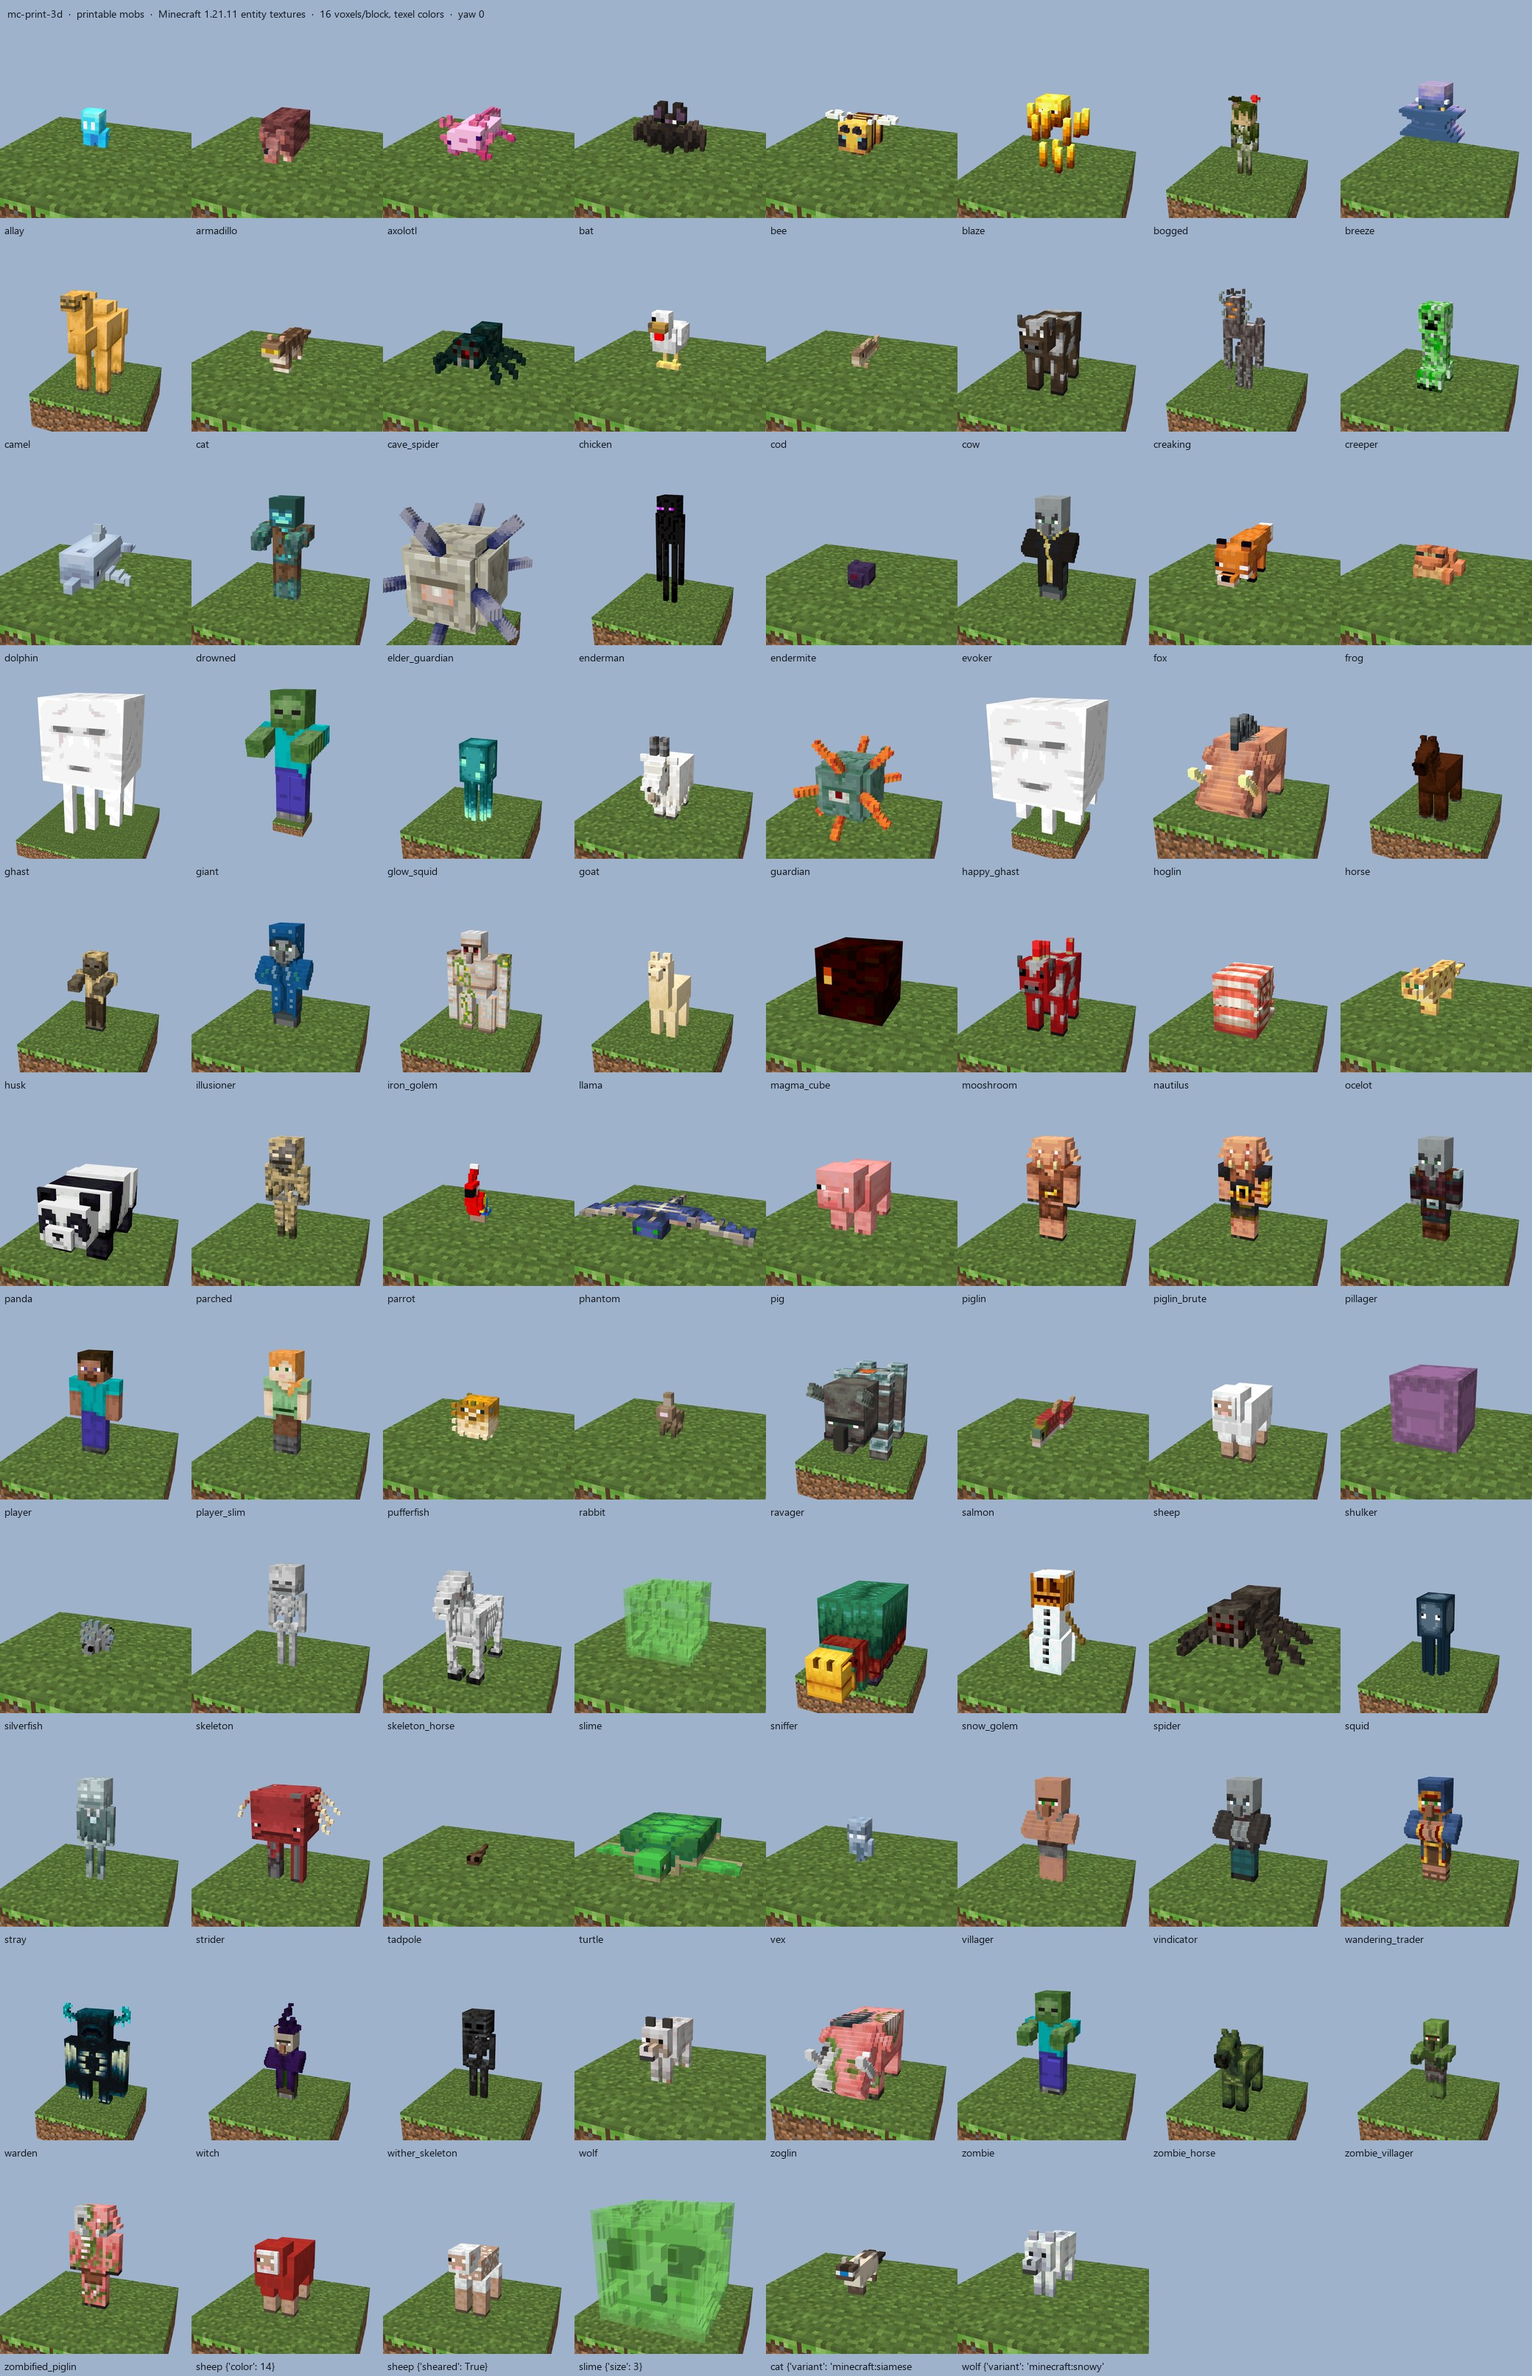
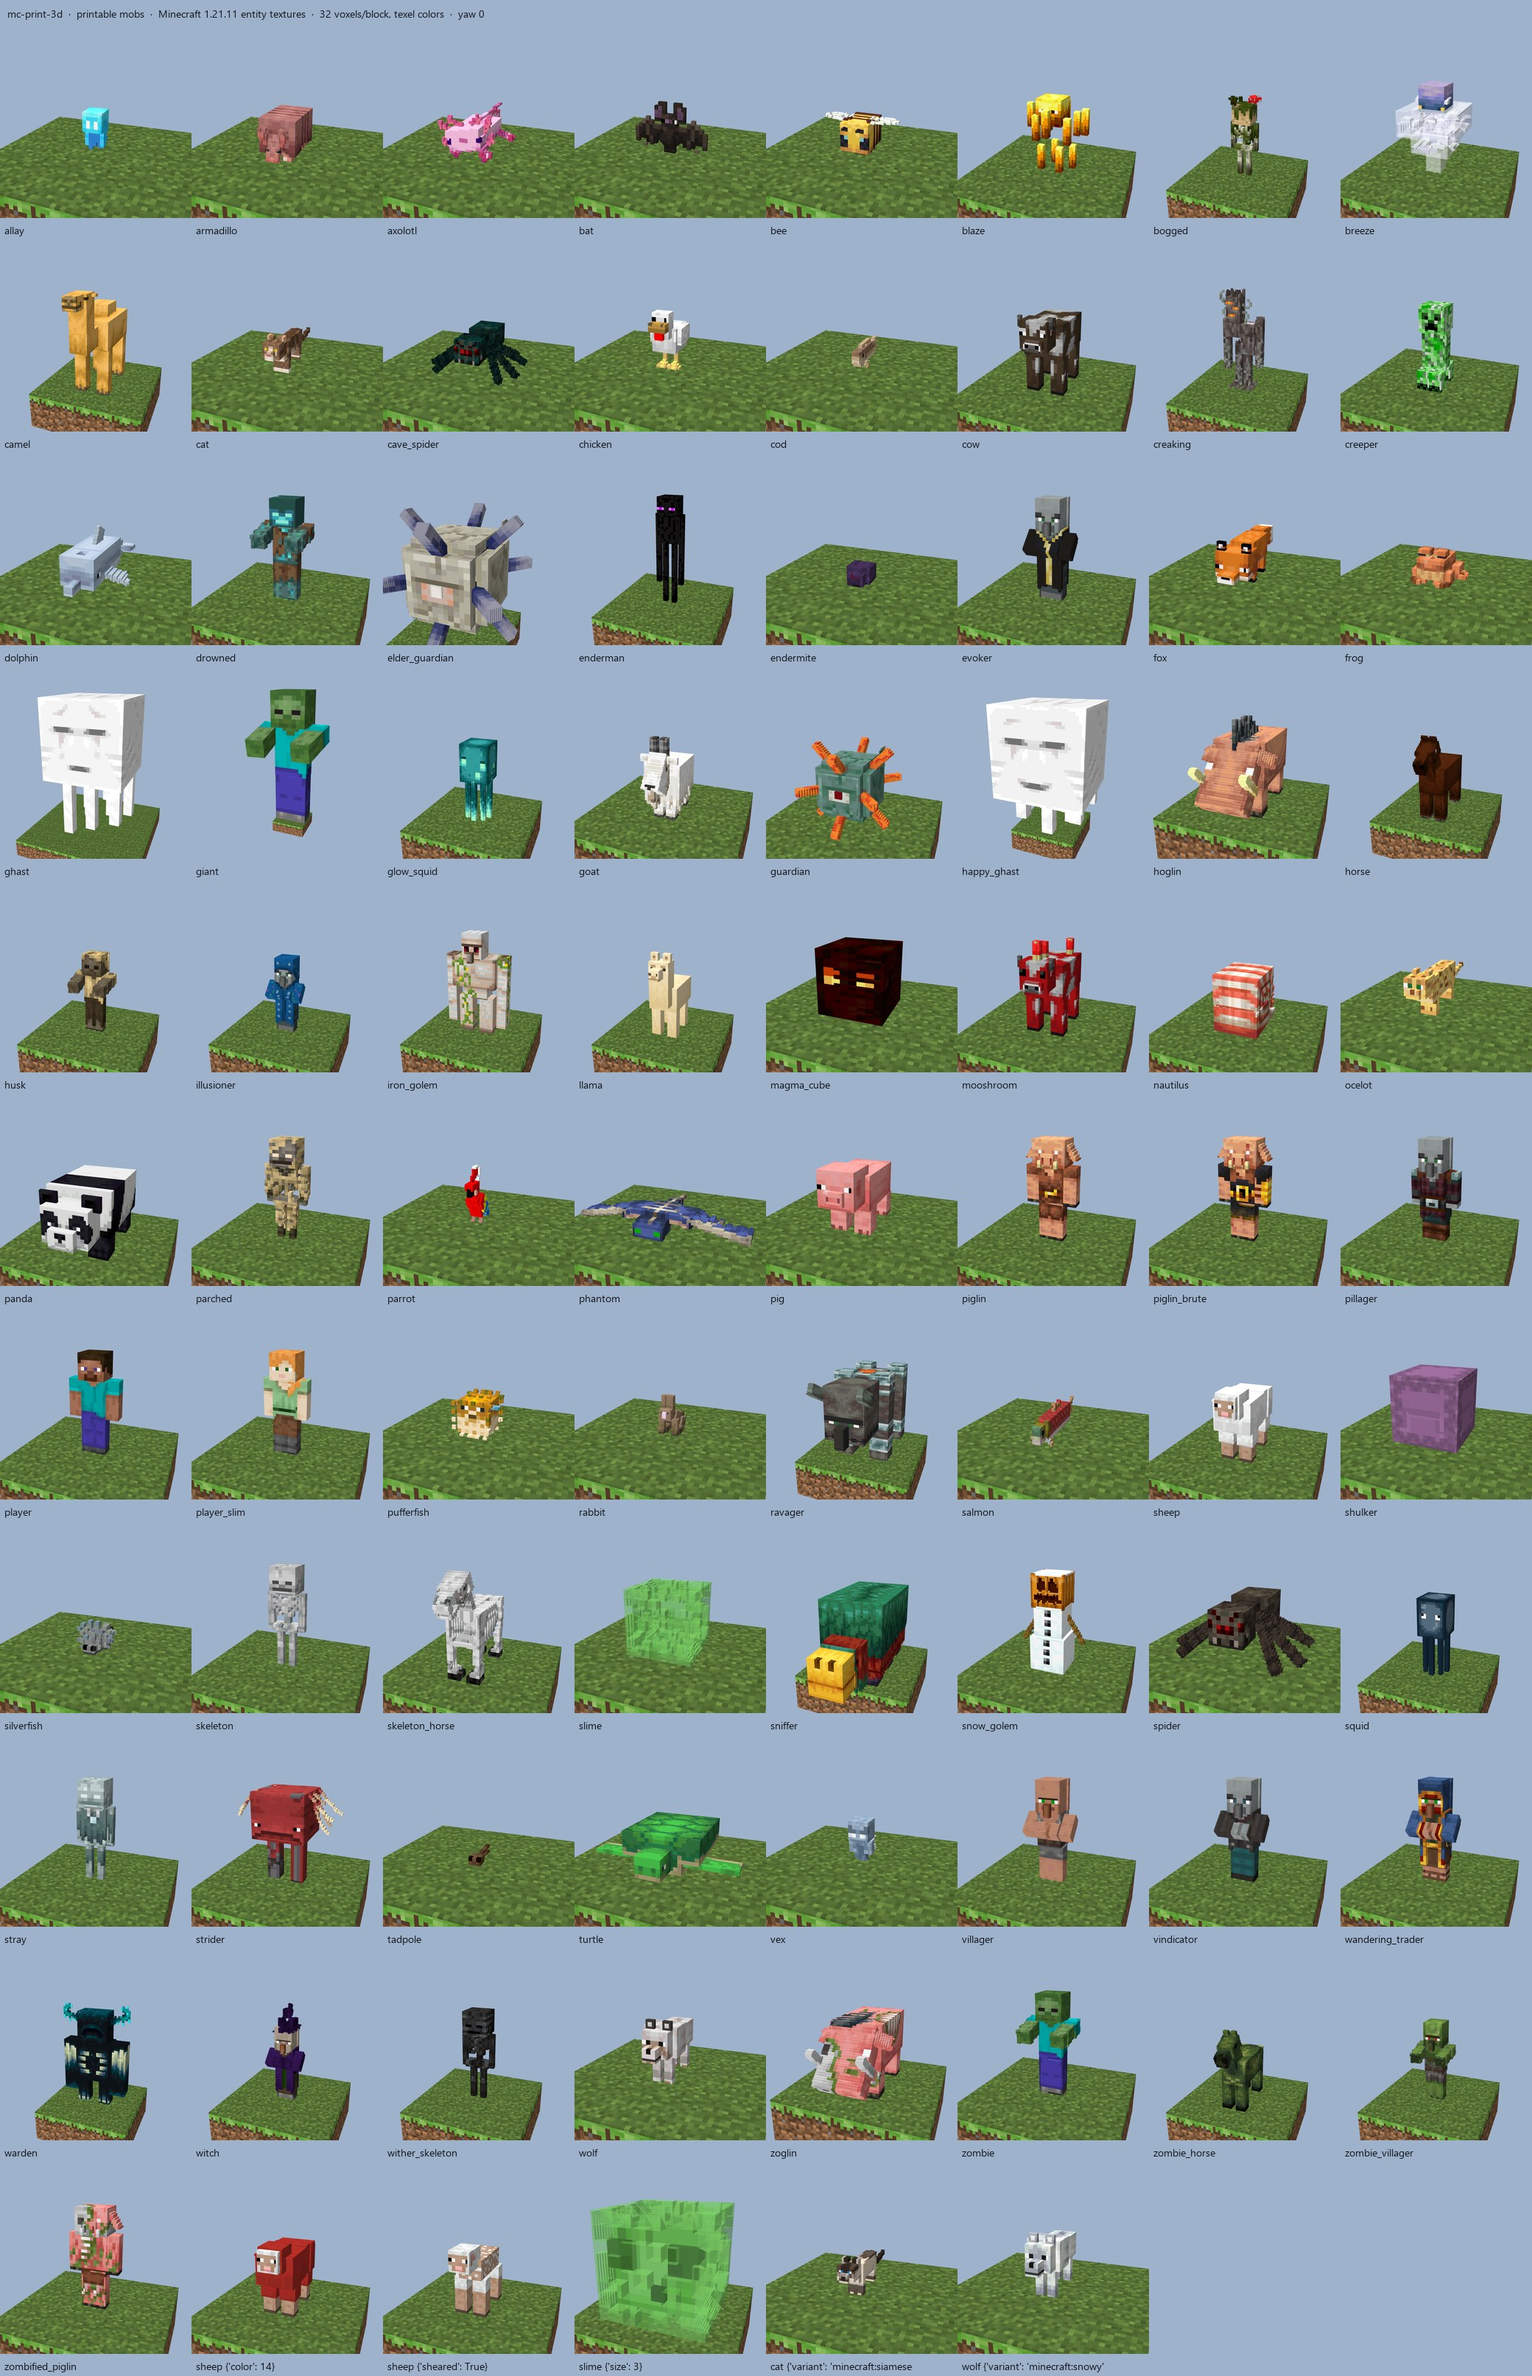
mobs: breeze wind funnel from its own layer, per-layer texture sizes, 32 voxels for figures; new hero image
- breeze: head and rods from breeze.png, the wind funnel from the breeze_wind layer printed solid in clear
  filament (its swirl texture is mostly transparent); extra layers carry their own texture size and hidden parts
- translucent boxes fill transparent texels with the nearest painted color (no holes in clear parts)
- `mcprint mob` uses up to 32 voxels per block by default: cats (0.8 scale) and rabbits (0.6) lose their
  ears and noses at 16; the README mob sheet is rendered at 32 now
- README hero: the cottage with its mobs, converted; relief wall stays below it

diff --git a/mcprint/mobs/models.py b/mcprint/mobs/models.py
@@ -57,6 +57,7 @@ class MobBox:
     overlay_uv: Optional[tuple[float, float]] = None   # second skin layer baked where opaque
     overlay_texture: Optional[str] = None       # e.g. enderman eyes
     face_textures: Optional[dict] = None        # face -> (block texture resource, pixel rect or None): pumpkin heads
+    tex_size: Optional[tuple[int, int]] = None  # texture size this box's layer was authored for (extra layers differ)
 
 
 @dataclass
@@ -152,11 +153,12 @@ def _layer_parts(layer: dict, *, prefix: str = "", texture: Optional[str] = None
         elif name in poses:
             rot = tuple(float(v) for v in poses[name])
         boxes = []
+        tsize = tuple(layer.get("texture_size", (64, 32)))
         for c in cubes:
             infl = c["inflate"]
             boxes.append(MobBox(tuple(c["origin"]), tuple(c["size"]), (c["uv"][0], c["uv"][1]), bool(c["mirror"]),
                                float(max(infl)) if max(infl) >= 0 else float(min(infl)), texture=texture, tint=tint,
-                               translucent=translucent))
+                               translucent=translucent, tex_size=tsize))
         for b in boxes:
             ov = overlays.get(path) or overlays.get(name)
             if ov:
@@ -177,7 +179,7 @@ class MobSpec:
     layer: str
     texture: str
     label: str = ""
-    extra_layers: tuple = ()      # (layer, texture, tint, translucent)
+    extra_layers: tuple = ()      # (layer, texture, tint, translucent[, hidden parts])
     hidden: tuple = ()            # part names / paths hidden in the default state
     poses: dict = field(default_factory=dict)      # part -> (rx, ry, rz) from setupAnim's rest state
     overlays: dict = field(default_factory=dict)   # part -> overlay texture baked on top
@@ -238,7 +240,9 @@ REGISTRY: dict[str, MobSpec] = {
     "endermite": MobSpec("endermite", E + "endermite", "endermite", width=0.4, height=0.3),
     "phantom": MobSpec("phantom", E + "phantom", "phantom", width=0.9, height=0.5),
     "warden": MobSpec("warden", E + "warden/warden", "warden", width=0.9, height=2.9),
-    "breeze": MobSpec("breeze", E + "breeze/breeze", "breeze", width=0.6, height=1.77),
+    # BreezeRenderer draws head + rods from breeze.png and the wind funnel from breeze_wind.png (a separate layer)
+    "breeze": MobSpec("breeze", E + "breeze/breeze", "breeze", hidden=("wind_body", "eyes"),
+                      extra_layers=(("breeze_wind", E + "breeze/breeze_wind", None, True, ("body",)),), width=0.6, height=1.77),   # funnel in clear filament
     "creaking": MobSpec("creaking", E + "creaking/creaking", "creaking", width=0.9, height=2.7),
     "strider": MobSpec("strider", E + "strider/strider", "strider", width=0.9, height=1.7),
     # ---- friendly ---------------------------------------------------------------------
@@ -400,7 +404,9 @@ def mob_model(mob_id: str, props: Optional[dict] = None) -> Optional[MobModel]:
         scale *= float(max(1, int(props.get("size", 1)) + 1))
     model = MobModel(mid, texture, parts, scale=scale, tex_size=tuple(layer["texture_size"]), label=spec.label or mid.replace("_", " "),
                      width=spec.width * scale, height=spec.height, layer=layer_name)
-    for extra_layer, extra_tex, tint, translucent in spec.extra_layers:
+    for extra in spec.extra_layers:
+        extra_layer, extra_tex, tint, translucent = extra[:4]
+        extra_hidden = tuple(extra[4]) if len(extra) > 4 else ()
         if mid == "sheep":
             color = props.get("color", "white")
             if props.get("sheared"):           # 1.21.5+: a thin colored undercoat stays on a sheared sheep
@@ -411,7 +417,7 @@ def mob_model(mob_id: str, props: Optional[dict] = None) -> Optional[MobModel]:
         lay = layers.get(extra_layer)
         if lay is None:
             continue
-        extra_parts = _layer_parts(lay, prefix=extra_layer + ":", texture=extra_tex, tint=tint, translucent=translucent)
+        extra_parts = _layer_parts(lay, prefix=extra_layer + ":", texture=extra_tex, tint=tint, translucent=translucent, hidden=extra_hidden)
         if translucent:
             model.parts[:0] = extra_parts        # stamped first so the opaque core and eyes stay visible inside the shell
         else:

diff --git a/mcprint/mobs/raster.py b/mcprint/mobs/raster.py
@@ -231,6 +231,11 @@ class MobVoxelizer:
             rgb = np.zeros((len(idx), 3), dtype=np.uint8)
             keep = np.ones(len(idx), dtype=bool)
             tex = self._texture(box.texture) if box.texture else tex_default
+            if box.translucent and tex is not None:
+                # printed solid in clear filament: transparent texels take the nearest painted color, never a hole
+                filled = self.textures.filled(box.texture or model.texture)
+                if filled is not None:
+                    tex = np.concatenate([filled, np.full(filled.shape[:2] + (1,), 255, dtype=np.uint8)], axis=2)
             rects = _face_rects(box, box.uv)
             orects = _face_rects(box, box.overlay_uv) if box.overlay_uv else None
             otex = self._texture(box.overlay_texture) if box.overlay_texture else tex
@@ -253,12 +258,13 @@ class MobVoxelizer:
                 if tex is None:
                     rgb[sel] = (150, 150, 150)
                     continue
-                px = _sample(tex, rects[face], fu, fv, tex.shape[1] / model.tex_size[0])
+                tsz = box.tex_size or model.tex_size
+                px = _sample(tex, rects[face], fu, fv, tex.shape[1] / tsz[0])
                 col = px[:, :3].astype(np.uint8)
                 # translucent parts (slime) are printed solid in clear filament: their soft alpha is not a cut-out
                 ok = px[:, 3] >= self.alpha if not box.translucent else np.ones(len(fu), dtype=bool)
                 if orects is not None and otex is not None:
-                    op = _sample(otex, orects[face], fu, fv, otex.shape[1] / model.tex_size[0])
+                    op = _sample(otex, orects[face], fu, fv, otex.shape[1] / tsz[0])
                     over = op[:, 3] >= self.alpha
                     col = np.where(over[:, None], op[:, :3], col).astype(np.uint8)
                     ok |= over

diff --git a/mcprint/cli.py b/mcprint/cli.py
@@ -240,6 +240,8 @@ def cmd_mob(a: argparse.Namespace) -> int:
         print(f"error: no printable model for {spec['id']!r} (see 'mcprint mobs')", file=sys.stderr)
         return 2
     s = _settings_from_args(a)
+    if not a.resolution:
+        s.resolution = int(max(16, min(32, round(s.block_mm / max(s.nozzle_mm * 1.2, 0.25)))))   # figures: up to 32 voxels per block
     s.include_mobs = True
     s.extra_mobs = []
     s.remove_islands = False

diff --git a/README.md b/README.md
@@ -9,6 +9,10 @@ Convert Minecraft schematics into multi-color, print-ready 3D models, using the 
 [![GUI: PySide6](https://img.shields.io/badge/GUI-PySide6-41CD52?logo=qt&logoColor=white)](https://doc.qt.io/qtforpython-6/)
 [![Formats](https://img.shields.io/badge/schematics-.schematic%20.schem%20.litematic%20.nbt%20.mcstructure%20.bp-blue)](#supported-input-formats)
 
+![A cottage with its mobs, converted for printing](docs/hero.png)
+
+*A 17 × 11 × 13 block cottage with the creatures saved in its schematic, converted at 10 mm per block: texture relief on the walls and roof, the mobs as figures, every color from the game's own textures.*
+
 ![Texture relief on a wall of blocks](docs/texture-relief.png)
 
 *Bricks, stone bricks, cobblestone, planks, stone, mud bricks, deepslate tiles, log, dirt, sandstone — converted at 16 voxels per block with 0.6 mm texture relief. Mortar lines, seams and bark ridges are real geometry; plain stone and dirt stay flat.*
@@ -122,7 +126,7 @@ python -m mcprint convert castle.litematic --style cubes           # plain cubes
 
 ![Printable mobs](docs/mobs.jpg)
 
-*All 78 printable mobs rasterized at 16 voxels per block from the 1.21.11 entity textures, plus a red sheep, a sheared sheep, a size-3 slime, a siamese cat and a snowy wolf. Hostile: blaze, bogged, breeze, cave spider, creaking, creeper, drowned, elder guardian, enderman, endermite, evoker, ghast, giant, guardian, hoglin, husk, illusioner, magma cube, parched, phantom, piglin, piglin brute, pillager, ravager, shulker, silverfish, skeleton, slime, spider, stray, strider, vex, vindicator, warden, witch, wither skeleton, zoglin, zombie, zombie villager, zombified piglin. Friendly: allay, armadillo, axolotl, bat, bee, camel, cat, chicken, cod, cow, dolphin, fox, frog, glow squid, goat, happy ghast, horse, iron golem, llama, mooshroom, nautilus, ocelot, panda, parrot, pig, players (Steve and Alex, or your own skin), pufferfish, rabbit, salmon, sheep, skeleton horse, sniffer, snow golem, squid, tadpole, turtle, villager, wandering trader, wolf, zombie horse.*
+*All 78 printable mobs rasterized at 32 voxels per block from the 1.21.11 entity textures, plus a red sheep, a sheared sheep, a size-3 slime, a siamese cat and a snowy wolf. Hostile: blaze, bogged, breeze, cave spider, creaking, creeper, drowned, elder guardian, enderman, endermite, evoker, ghast, giant, guardian, hoglin, husk, illusioner, magma cube, parched, phantom, piglin, piglin brute, pillager, ravager, shulker, silverfish, skeleton, slime, spider, stray, strider, vex, vindicator, warden, witch, wither skeleton, zoglin, zombie, zombie villager, zombified piglin. Friendly: allay, armadillo, axolotl, bat, bee, camel, cat, chicken, cod, cow, dolphin, fox, frog, glow squid, goat, happy ghast, horse, iron golem, llama, mooshroom, nautilus, ocelot, panda, parrot, pig, players (Steve and Alex, or your own skin), pufferfish, rabbit, salmon, sheep, skeleton horse, sniffer, snow golem, squid, tadpole, turtle, villager, wandering trader, wolf, zombie horse.*
 
 ![Cottage with mobs](docs/preview-mobs.png)
 
@@ -142,7 +146,7 @@ The geometry is not modelled by hand. Minecraft keeps its entity models in code 
 - **One mob, one file.** `mcprint mob creeper --block-mm 20` writes a creeper figure with its plate; `mcprint mob sheep:red --kit` a red sheep as a kit piece; `mcprint mob player --skin me.png --format stl` you.
 - **Kit mode.** A mob is one piece: all of its cells as a single body on a base tile with a socket under every ground cell (no studs on a head). Figures print in their dominant color; use the solid build for full-color mobs.
 - **Rotation.** Entity yaws are snapped to the nearest 90° by default so a figure's boxes align with the voxel grid; a mob turned 37° would print as stair-steps on every face. `--mob-free-yaw` (or the checkbox in the app) keeps the exact rotation.
-- **Detail.** Mobs share the block resolution (16 sub-voxels per block by default), so a 4-unit-wide arm is 4 voxels wide and tilted parts (villager arms, spider legs, wolf tail) come out stair-stepped like any diagonal in a voxel model. Set *resolution* to 32 in the Model tab or pass `--resolution 32` for finer figures at the cost of larger meshes.
+- **Detail.** `mcprint mob` uses up to 32 voxels per block, which small mobs need: a cat is drawn at 0.8 scale and a rabbit at 0.6, so their ears and noses are under a voxel wide at 16. In a schematic, mobs share the block resolution (16 sub-voxels per block by default), so a 4-unit-wide arm is 4 voxels wide and tilted parts (villager arms, spider legs, wolf tail) come out stair-stepped like any diagonal in a voxel model. Set *resolution* to 32 in the Model tab or pass `--resolution 32` for finer figures at the cost of larger meshes.
 
 ```bash
 python -m mcprint mobs                                                    # list ids, sizes, textures
